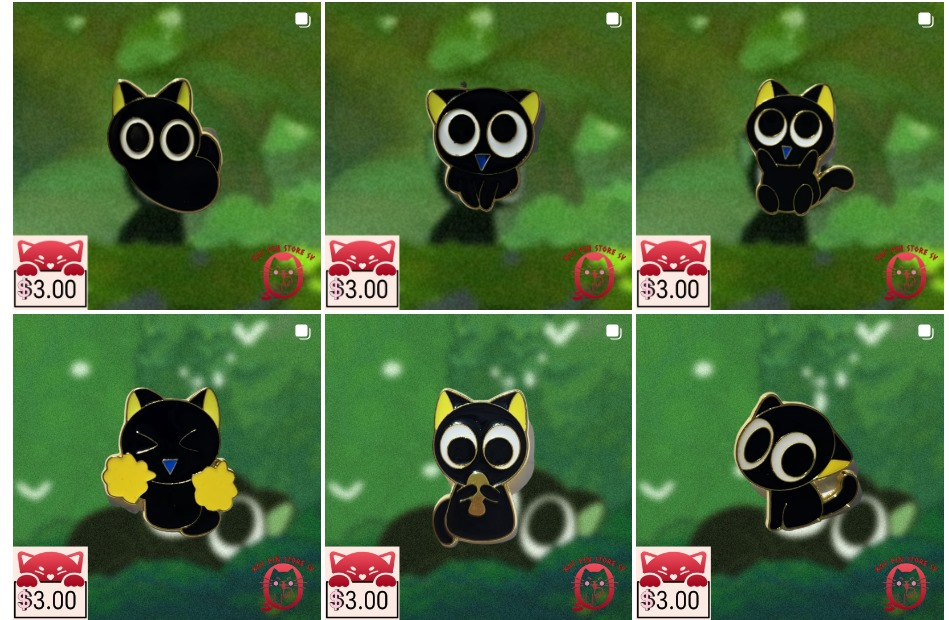
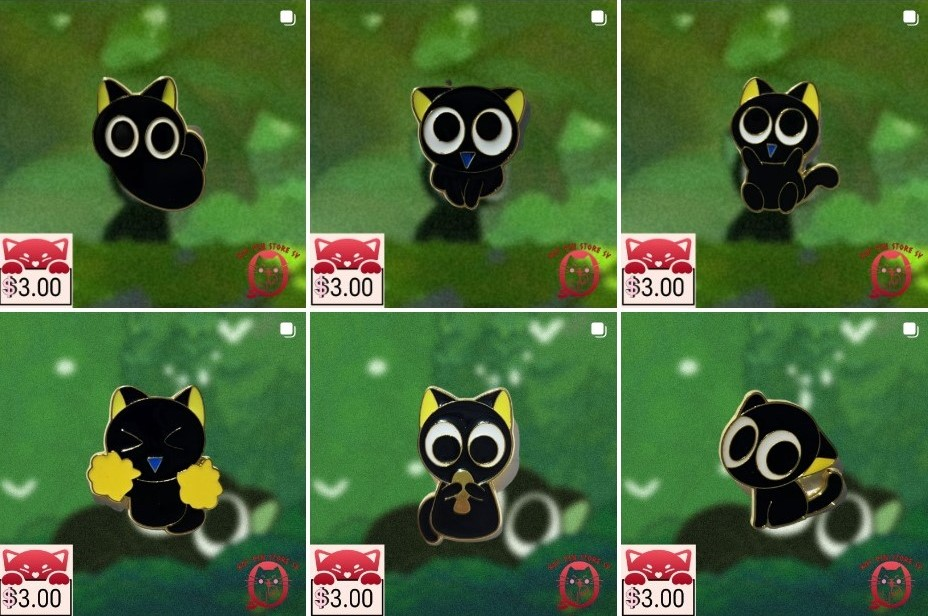
GRID

diff --git a/index.html b/index.html
@@ -51,22 +51,13 @@
             <img src="IMG/CapibaraMano.jpg" alt="Imagen 3">
         </div>
         <div class="element">
-            <img src="IMG/fantasmagato.jpg" alt="Imagen 3">
+            <img src="IMG/gatitosHEI.jpg" alt="Imagen 4">
         </div>
         <div class="element">
-            <img src="IMG/gatoflores.jpg" alt="Imagen 3">
+            <img src="IMG/gatoflores.jpg" alt="Imagen 5">
         </div>
         <div class="element">
-            <img src="IMG/fantasmagato.jpg" alt="Imagen 3">
-        </div>
-        <div class="element">
-            <img src="IMG/gatoflores.jpg" alt="Imagen 3">
-        </div>
-        <div class="element">
-            <img src="IMG/fantasmagato.jpg" alt="Imagen 3">
-        </div>
-        <div class="element">
-            <img src="IMG/gatoflores.jpg" alt="Imagen 3">
+            <img src="IMG/fantasmagato.jpg" alt="Imagen 5">
         </div>
     </div>
  

diff --git a/CSS/main.css b/CSS/main.css
@@ -285,13 +285,13 @@ header {
 }
 
 .elements .element:nth-child(4) {
-    grid-column: 3 / 4; /* Ocupa columna 3 */
-    grid-row: 6 / 5; /* Ocupa fila 2 */
+    grid-column: 3 / 5; /* Ocupa columna 3 */
+    grid-row: 5 / 7; /* Ocupa fila 2 */
 }
 
 .elements .element:nth-child(5) {
-    grid-column: 4 / 5; /* Ocupa columna 3 */
-    grid-row: 6 / 5; /* Ocupa fila 2 */
+    grid-column: 1 / 2; /* Ocupa columna 3 */
+    grid-row: 7 / 6; /* Ocupa fila 2 */
 }
 
 .end{
